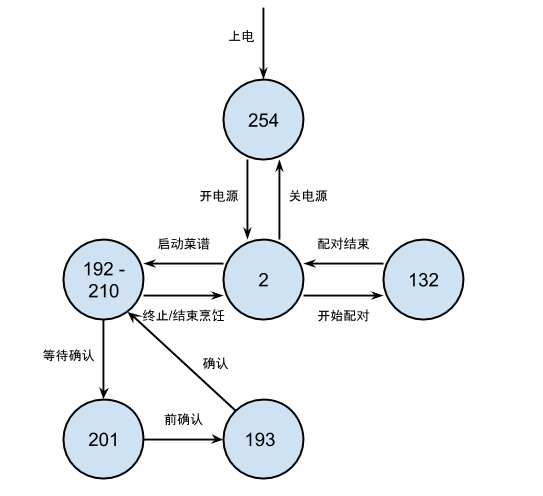
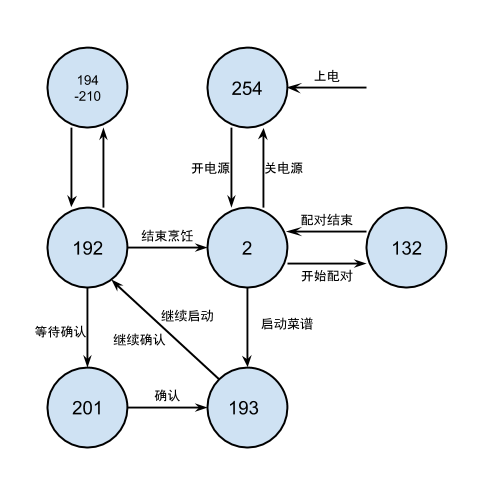
picture

Changed region(s): [[0.0598, 0.0, 0.8964, 0.9796]]

diff --git a/README.md b/README.md
@@ -3,7 +3,8 @@
 ## 数据帧
 
 * 帧长度 - 4 ~ 256 字节
-* 每帧数据的格式 - 固定的起始头 ( AK 的 ASCII 码 0x41 + 0x4B ) 、引导区 ( Len 本帧数据长度 + Sum 校验和，校验和是本帧所有其他数据字节和的补码 )、数据区 ( 每个数据包含键值数据对 Key + Val )
+* 每帧数据的格式 - 固定的起始头 ( AK 的 ASCII 码 0x41 + 0x4B ) 、引导区 ( Len 本帧数据长度 + Sum 校验和，
+校验和是本帧所有其他数据字节和的补码 )、数据区 ( 每个数据包含键值数据对 Key + Val )
 
 ‘A’ | ‘K’
 ------------ | -------------
@@ -74,22 +75,24 @@ uint8 dataframe [] = {
 * 0x6d - 散热器温度高字节，单位: 0.01 摄氏度
 * 0x6e - 时钟低字节
 * 0x6f - 时钟高字节
-* 0x88 - 外设标志
 
 ## 模式 (Key = 0x2d)
 
 * 2 - 待机，手动模式
+* 64-95 - 应用模式
 * 128 - 升级固件
 * 132 - 蓝牙配对模式
-* 192-210 - 菜谱模式。其中：201 - 等待确认，重新设置模式为 192 确认
+* 192-210 - 菜谱模式。其中：201 - 等待确认，重新设置模式为 193，然后 192 确认
 * 254 - 关机
+
+!(https://raw.githubusercontent.com/a-kitchen/module/master/modes.png)
 
 ## 错误码 (Key = 0x63)
 
-* 4 - 传感器开路
-* 5 - 传感器短路
-* 6 - 传感器引脚故障
-* 7 - 传感器故障
+* 4 - 传感器故障
+* 5 - 传感器开路
+* 6 - 传感器短路
+* 7 - 传感器引脚故障
 * 8 - IGBT 过热
 * 11 - 有线通信故障
 * 12 - 无线通信故障
@@ -116,13 +119,6 @@ uint8 dataframe [] = {
 * 0x0500 - 翻炒/搅拌 5
 * 0x0600 - 翻炒/搅拌 6
 * 0x0700 - 翻炒/搅拌 7
-
-## 外设标志掩码 (Key = 0x88)
-
-* 0x01 - 锅盖关闭
-* 0x02 - 搅拌铲
-* 0x02 - 搅拌铲
-* 0x110 - 真空
 
 ## 端子
 
@@ -152,7 +148,7 @@ uint8 dataframe [] = {
 1. SCL
 1. SDA
 1. INT
-1. COM - 显示亮度
+1. COM - 显示背景亮度
 1. LED1 - 显示1
 1. LED2 - 显示2
 1. LED3 - 显示3
